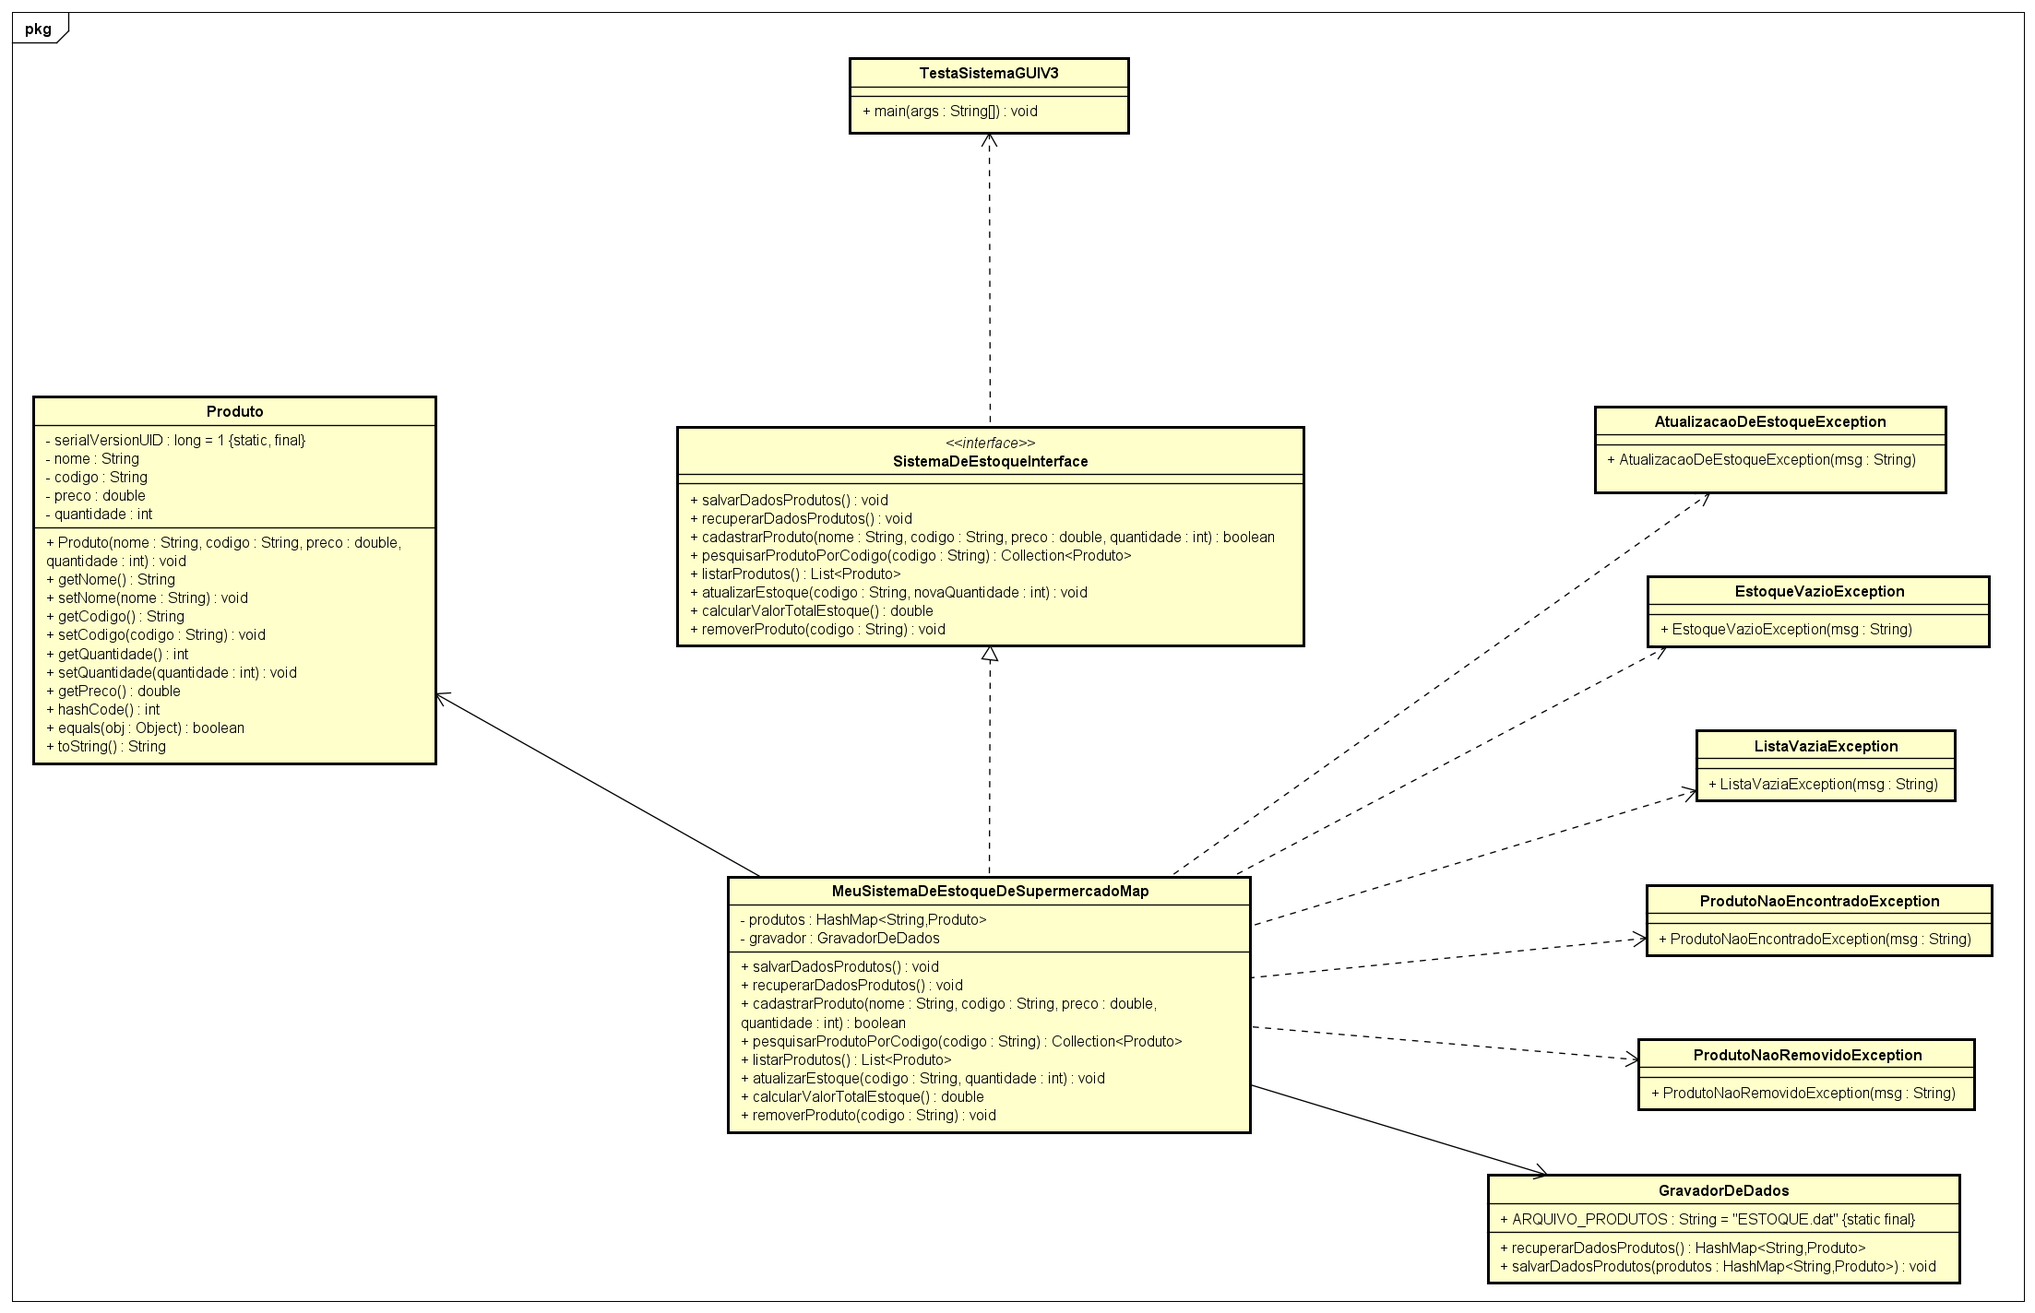
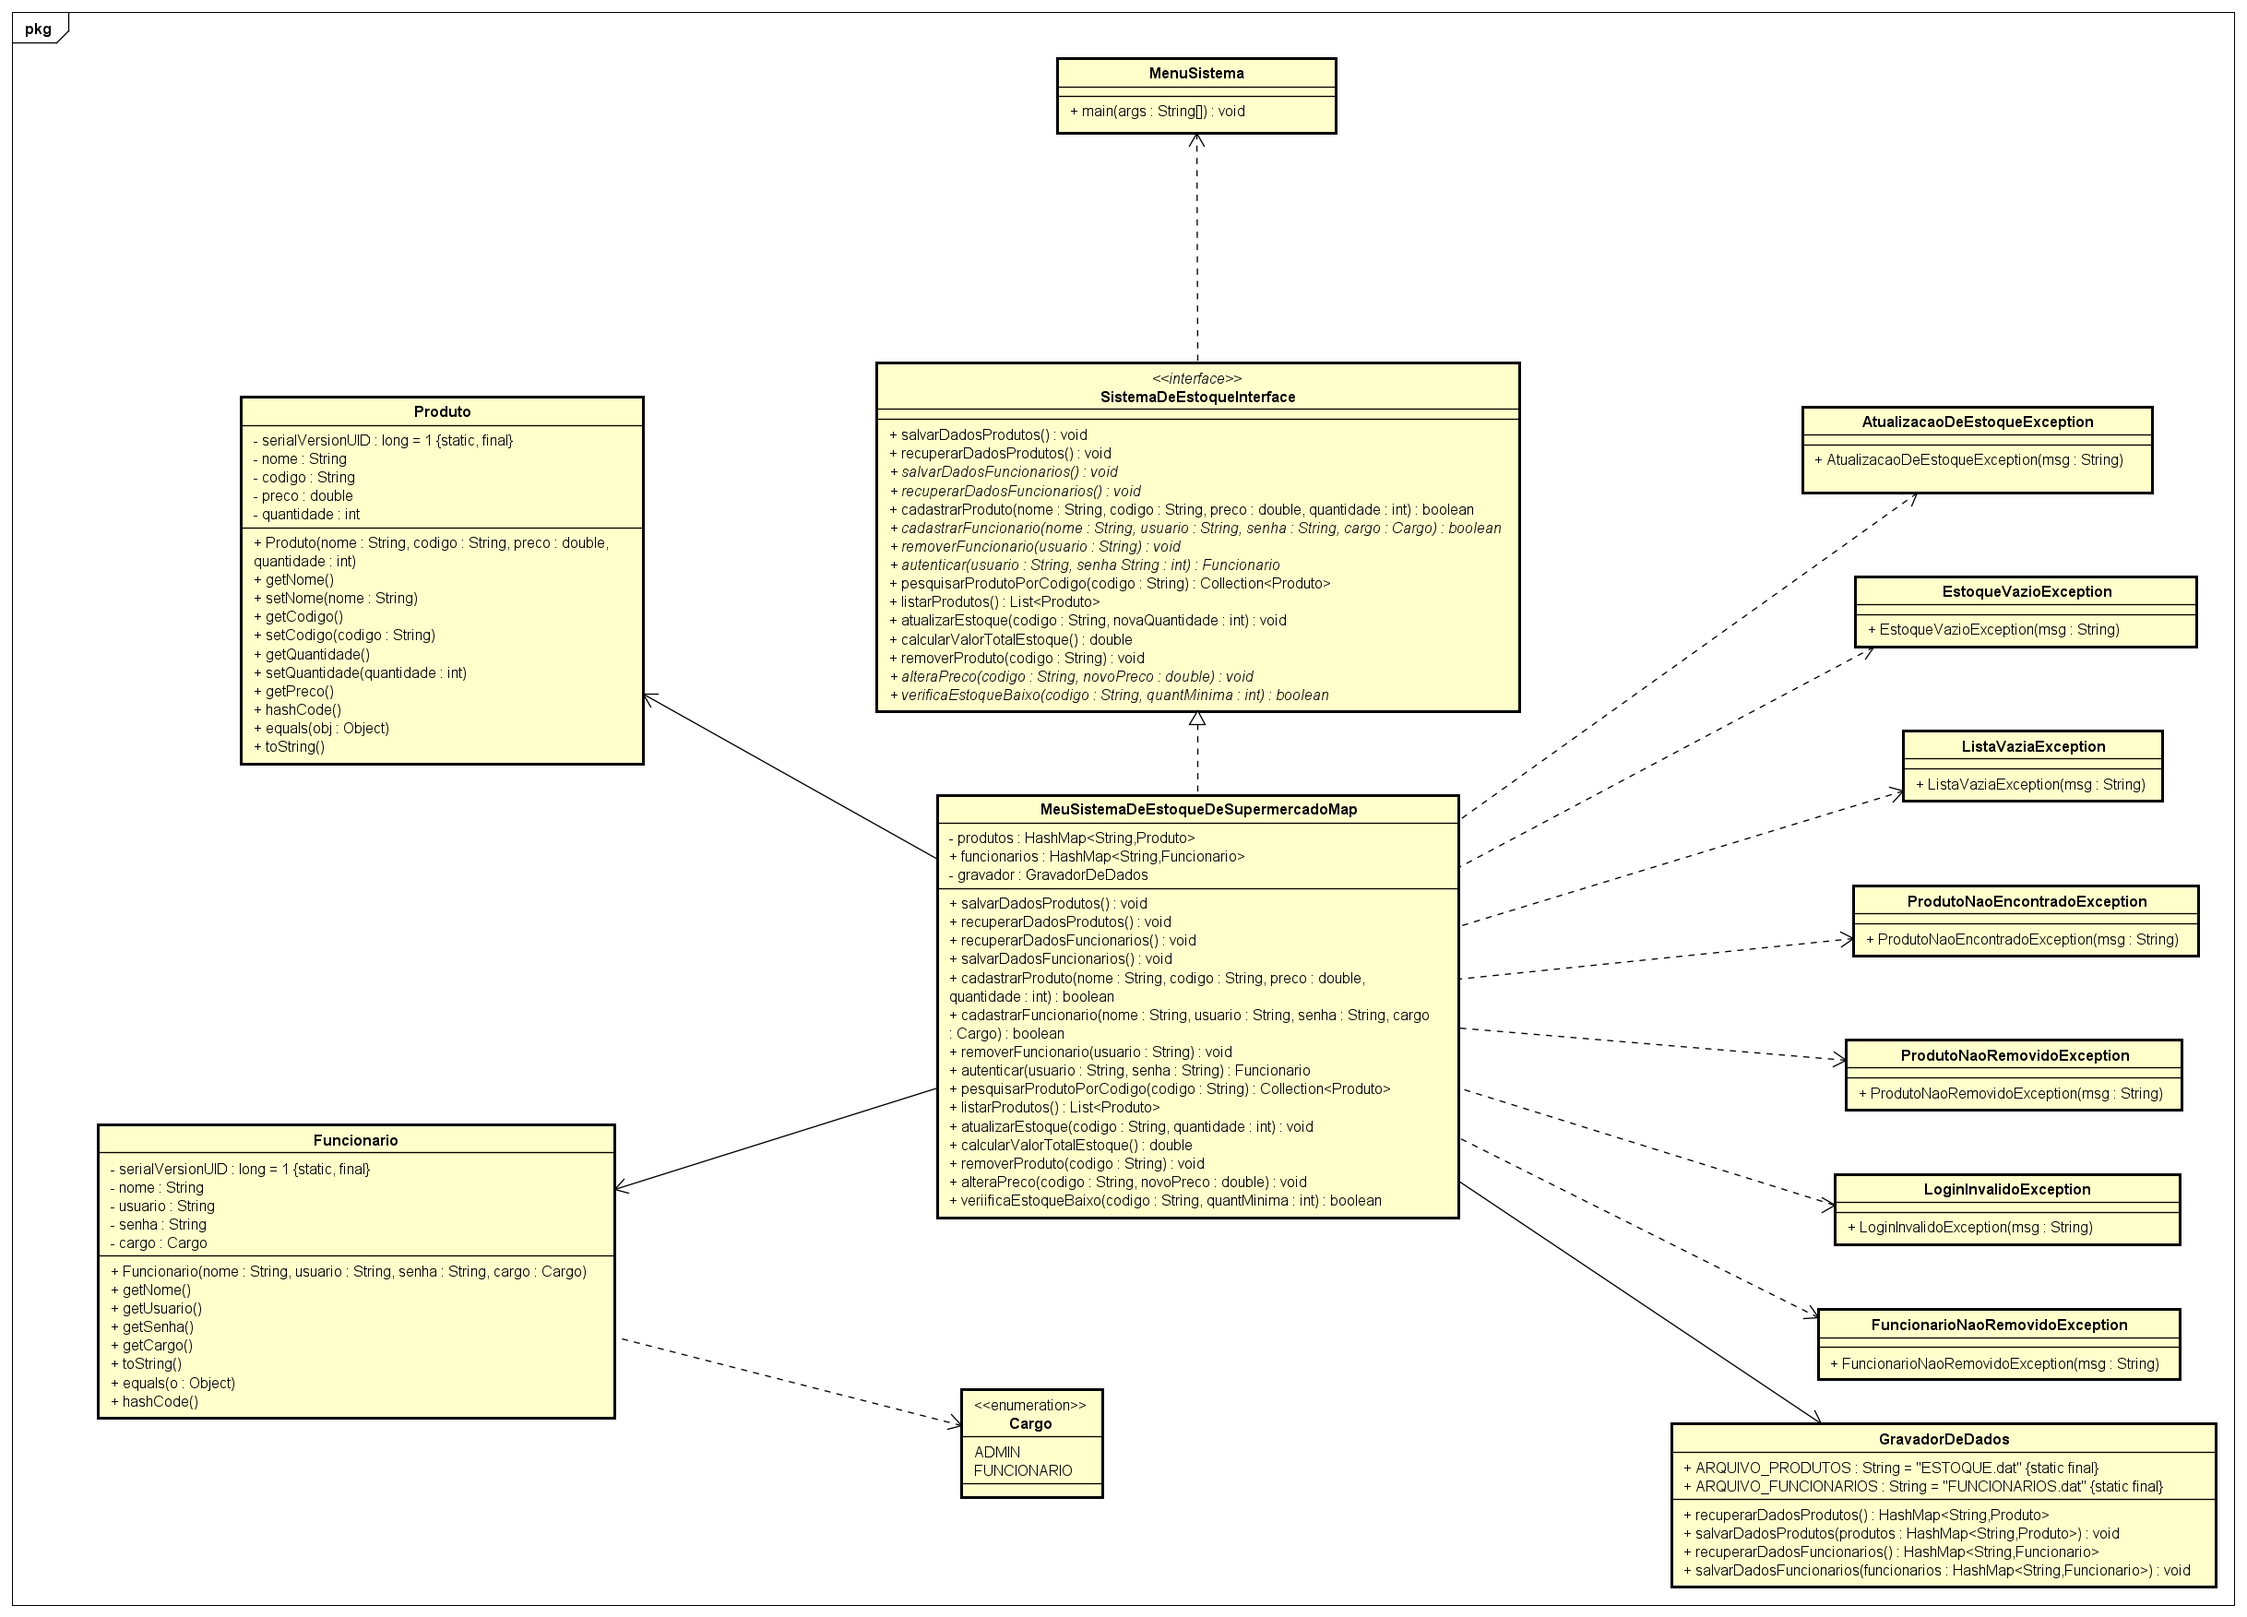
Merge remote-tracking branch 'origin/main'

diff --git a/src/main/java/br/ufpb/dcx/anikely/SistemaDeEstoqueDeSupermercado/MeuSistemaDeEstoqueDeSupermercadoMap.java b/src/main/java/br/ufpb/dcx/anikely/SistemaDeEstoqueDeSupermercado/MeuSistemaDeEstoqueDeSupermercadoMap.java
@@ -114,6 +114,7 @@ public class MeuSistemaDeEstoqueDeSupermercadoMap implements SistemaDeEstoqueInt
                     " não encontrado para remoção! :( ");
         }
     }
+    @Override
     public void alteraPreco (String codigo, double novoPreco) throws ProdutoNaoEncontradoException{
         Produto encontrado = produtos.get(codigo);
         if (encontrado != null){
@@ -122,6 +123,7 @@ public class MeuSistemaDeEstoqueDeSupermercadoMap implements SistemaDeEstoqueInt
             throw new ProdutoNaoEncontradoException("Produto com o código "+codigo+"\n não encontrado!");
         }
     }
+    @Override
     public boolean verificaEstoqueBaixo (String codigo, int quantMinima) throws ProdutoNaoEncontradoException{
         Produto p = produtos.get(codigo);
         if (p == null){
@@ -129,6 +131,7 @@ public class MeuSistemaDeEstoqueDeSupermercadoMap implements SistemaDeEstoqueInt
         }
         return p.getQuantidade() < quantMinima;
     }
+    @Override
     public Funcionario autenticar (String usuario, String senha) throws LoginInvalidoException{
         Funcionario funcionario = funcionarios.get(usuario);
         if (funcionario == null || !funcionario.getSenha().equals(senha)){

diff --git a/src/main/java/br/ufpb/dcx/anikely/SistemaDeEstoqueDeSupermercado/SistemaDeEstoqueInterface.java b/src/main/java/br/ufpb/dcx/anikely/SistemaDeEstoqueDeSupermercado/SistemaDeEstoqueInterface.java
@@ -12,6 +12,7 @@ public interface SistemaDeEstoqueInterface {
     public void removerFuncionario(String usuario) throws FuncionarioNaoRemovidoException;
     public boolean cadastrarProduto(String nome, String codigo, double preco, int quantidade);
     public boolean cadastrarFuncionario (String nome, String usuario, String senha, Cargo cargo);
+    public Funcionario autenticar (String usuario, String senha) throws LoginInvalidoException;
     public Collection<Produto> pesquisarProdutoPorCodigo(String codigo) throws ProdutoNaoEncontradoException;
     public List<Produto> listarProdutos () throws ListaVaziaException;
     public void atualizarEstoque (String codigo, int novaQuantidade) throws AtualizacaoDeEstoqueException;
